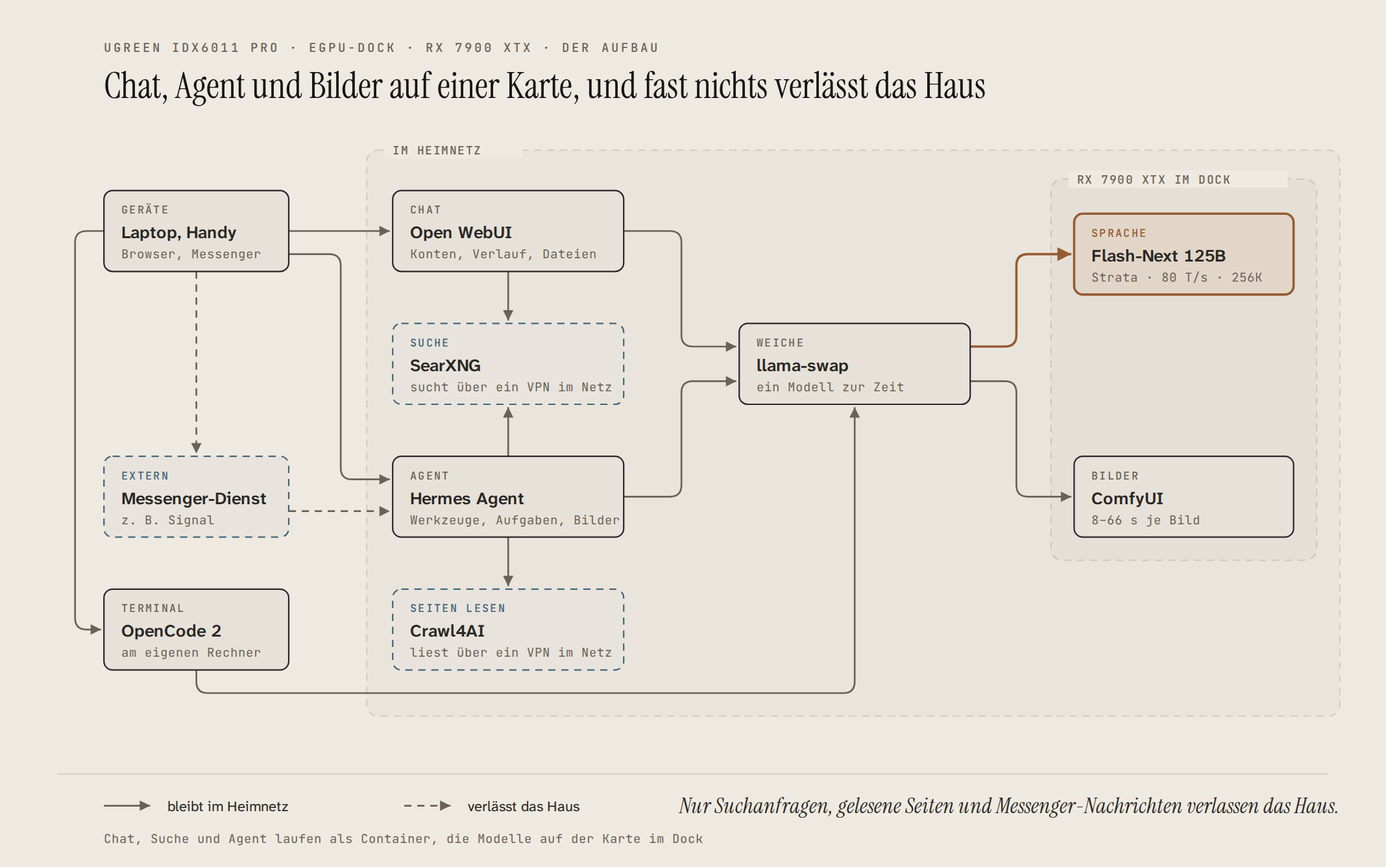
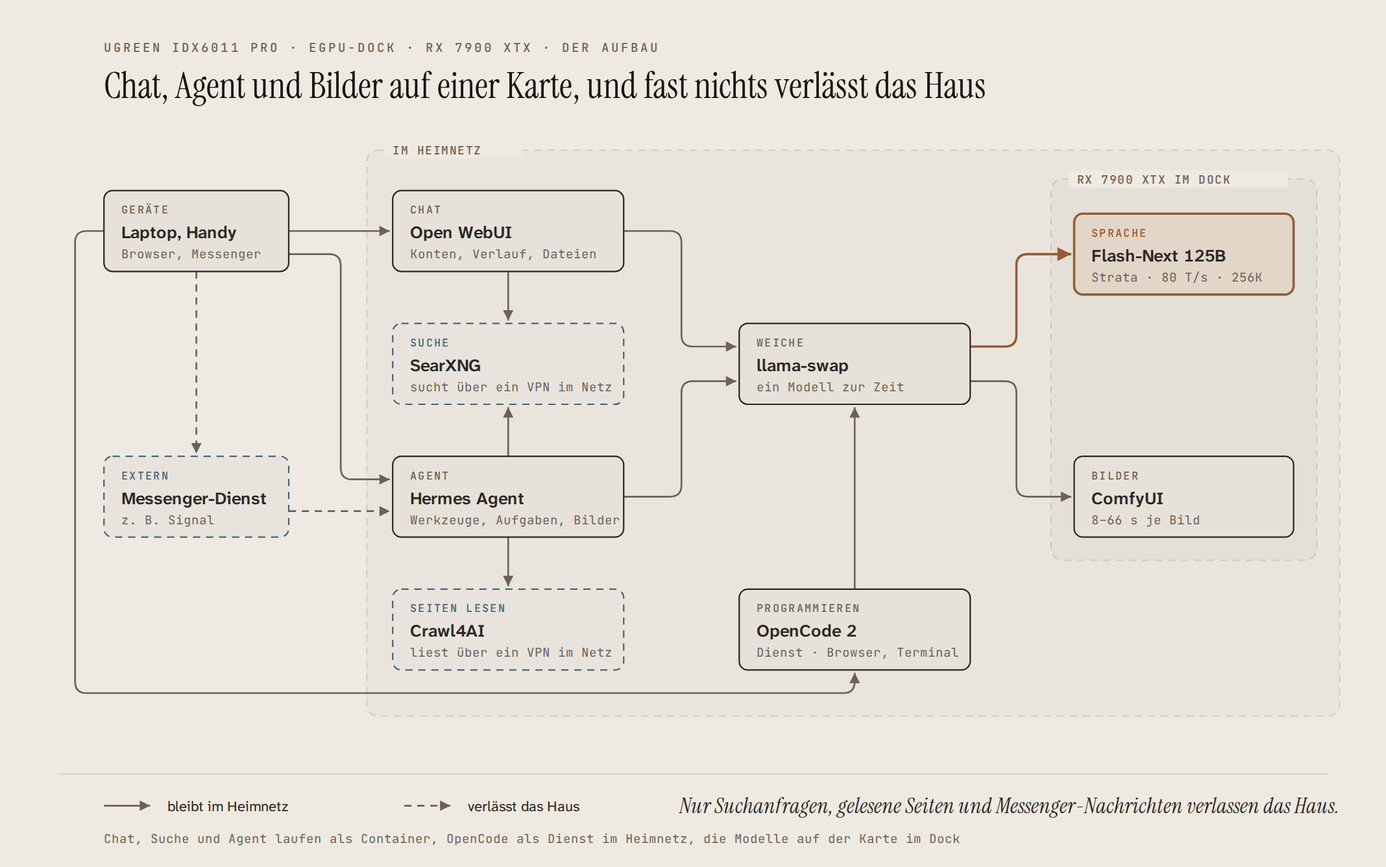
OpenCode 2 runs as a service in the home network: setup chart, page and guide updated

diff --git a/bilder/html/aufbau-de.html b/bilder/html/aufbau-de.html
@@ -18,7 +18,7 @@
   <div class="frame"><div class="scroll">
     <svg viewBox="0 0 960 600" xmlns="http://www.w3.org/2000/svg" role="img" aria-labelledby="aufbau-de-title aufbau-de-desc">
       <title id="aufbau-de-title">Chat, Agent und Bilder auf einer Karte, und fast nichts verl</title>
-      <desc id="aufbau-de-desc">Laptop und Handy sprechen im Heimnetz mit Open WebUI und mit Hermes Agent, mit dem Agenten auch über einen Messenger-Dienst; beide fragen llama-swap, ebenso OpenCode 2 aus dem Terminal des eigenen Rechners. llama-swap lädt auf der RX 7900 XTX entweder das Sprachmodell oder ComfyUI. Webseiten liest der Agent über Crawl4AI auf der iDX, das sie über ein VPN abruft. Nur Suchanfragen, die vom Agenten gelesenen Seiten und Messenger-Nachrichten verlassen das Haus.</desc>
+      <desc id="aufbau-de-desc">Laptop und Handy sprechen im Heimnetz mit Open WebUI und mit Hermes Agent, mit dem Agenten auch über einen Messenger-Dienst; beide fragen llama-swap, ebenso OpenCode 2, das als Dienst im Heimnetz läuft und vom Browser oder Terminal aus bedient wird. llama-swap lädt auf der RX 7900 XTX entweder das Sprachmodell oder ComfyUI. Webseiten liest der Agent über Crawl4AI auf der iDX, das sie über ein VPN abruft. Nur Suchanfragen, die vom Agenten gelesenen Seiten und Messenger-Nachrichten verlassen das Haus.</desc>
       <rect width="960" height="600" fill="#efeae1"/>
       <text x="72.0" y="36.0" fill="#6a6258" font-size="8.5" font-family="'JetBrains Mono', Consolas, monospace" font-weight="500" letter-spacing="0.16em">UGREEN IDX6011 PRO · EGPU-DOCK · RX 7900 XTX · DER AUFBAU</text>
       <text x="72.0" y="68.0" fill="#171512" font-size="25" font-family="'Instrument Serif', Georgia, serif">Chat, Agent und Bilder auf einer Karte, und fast nichts verlässt das Haus</text>
@@ -33,13 +33,13 @@
       <path d="M 200,176 H 228 Q 236,176 236,184 V 324 Q 236,332 244,332 H 270" fill="none" stroke="#6a6258" stroke-width="1.2" marker-end="url(#pf-de)"/>
       <path d="M 136,188 V 314" fill="none" stroke="#6a6258" stroke-width="1.2" stroke-dasharray="5,4" marker-end="url(#pf-de)"/>
       <path d="M 200,354 H 270" fill="none" stroke="#6a6258" stroke-width="1.2" stroke-dasharray="5,4" marker-end="url(#pf-de)"/>
-      <path d="M 72,160 H 60 Q 52,160 52,168 V 428 Q 52,436 60,436 H 70" fill="none" stroke="#6a6258" stroke-width="1.2" marker-end="url(#pf-de)"/>
+      <path d="M 72,160 H 60 Q 52,160 52,168 V 472 Q 52,480 60,480 H 584 Q 592,480 592,472 V 466" fill="none" stroke="#6a6258" stroke-width="1.2" marker-end="url(#pf-de)"/>
       <path d="M 352,188 V 222" fill="none" stroke="#6a6258" stroke-width="1.2" marker-end="url(#pf-de)"/>
       <path d="M 352,316 V 282" fill="none" stroke="#6a6258" stroke-width="1.2" marker-end="url(#pf-de)"/>
       <path d="M 352,372 V 406" fill="none" stroke="#6a6258" stroke-width="1.2" marker-end="url(#pf-de)"/>
       <path d="M 432,160 H 464 Q 472,160 472,168 V 232 Q 472,240 480,240 H 510" fill="none" stroke="#6a6258" stroke-width="1.2" marker-end="url(#pf-de)"/>
       <path d="M 432,344 H 464 Q 472,344 472,336 V 272 Q 472,264 480,264 H 510" fill="none" stroke="#6a6258" stroke-width="1.2" marker-end="url(#pf-de)"/>
-      <path d="M 136,464 V 472 Q 136,480 144,480 H 584 Q 592,480 592,472 V 282" fill="none" stroke="#6a6258" stroke-width="1.2" marker-end="url(#pf-de)"/>
+      <path d="M 592,408 V 282" fill="none" stroke="#6a6258" stroke-width="1.2" marker-end="url(#pf-de)"/>
       <path d="M 672,240 H 696 Q 704,240 704,232 V 184 Q 704,176 712,176 H 742" fill="none" stroke="#975b34" stroke-width="1.6" marker-end="url(#pf-de-a)"/>
       <path d="M 672,264 H 696 Q 704,264 704,272 V 336 Q 704,344 712,344 H 742" fill="none" stroke="#6a6258" stroke-width="1.2" marker-end="url(#pf-de)"/>
       <rect x="72" y="132" width="128" height="56" rx="6" fill="#efeae1"/>
@@ -52,11 +52,11 @@
       <text x="84.0" y="332.0" fill="#456579" font-size="7.5" font-family="'JetBrains Mono', Consolas, monospace" font-weight="500" letter-spacing="0.14em">EXTERN</text>
       <text x="84.0" y="349.0" fill="#2a2724" font-size="12" font-family="'Atkinson Hyperlegible Next', 'Segoe UI', sans-serif" font-weight="600">Messenger-Dienst</text>
       <text x="84.0" y="363.0" fill="#6a6258" font-size="8.5" font-family="'JetBrains Mono', Consolas, monospace">z. B. Signal</text>
-      <rect x="72" y="408" width="128" height="56" rx="6" fill="#efeae1"/>
-      <rect x="72" y="408" width="128" height="56" rx="6" fill="#2a2724" fill-opacity="0.04" stroke="#2a2724" stroke-width="1"/>
-      <text x="84.0" y="424.0" fill="#6a6258" font-size="7.5" font-family="'JetBrains Mono', Consolas, monospace" font-weight="500" letter-spacing="0.14em">TERMINAL</text>
-      <text x="84.0" y="441.0" fill="#2a2724" font-size="12" font-family="'Atkinson Hyperlegible Next', 'Segoe UI', sans-serif" font-weight="600">OpenCode 2</text>
-      <text x="84.0" y="455.0" fill="#6a6258" font-size="8.5" font-family="'JetBrains Mono', Consolas, monospace">am eigenen Rechner</text>
+      <rect x="512" y="408" width="160" height="56" rx="6" fill="#efeae1"/>
+      <rect x="512" y="408" width="160" height="56" rx="6" fill="#2a2724" fill-opacity="0.04" stroke="#2a2724" stroke-width="1"/>
+      <text x="524.0" y="424.0" fill="#6a6258" font-size="7.5" font-family="'JetBrains Mono', Consolas, monospace" font-weight="500" letter-spacing="0.14em">PROGRAMMIEREN</text>
+      <text x="524.0" y="441.0" fill="#2a2724" font-size="12" font-family="'Atkinson Hyperlegible Next', 'Segoe UI', sans-serif" font-weight="600">OpenCode 2</text>
+      <text x="524.0" y="455.0" fill="#6a6258" font-size="8.5" font-family="'JetBrains Mono', Consolas, monospace">Dienst · Browser, Terminal</text>
       <rect x="272" y="132" width="160" height="56" rx="6" fill="#efeae1"/>
       <rect x="272" y="132" width="160" height="56" rx="6" fill="#2a2724" fill-opacity="0.04" stroke="#2a2724" stroke-width="1"/>
       <text x="284.0" y="148.0" fill="#6a6258" font-size="7.5" font-family="'JetBrains Mono', Consolas, monospace" font-weight="500" letter-spacing="0.14em">CHAT</text>
@@ -98,7 +98,7 @@
       <path d="M 280,558 H 312" fill="none" stroke="#6a6258" stroke-width="1.2" stroke-dasharray="5,4" marker-end="url(#pf-de)"/>
       <text x="324.0" y="562.0" fill="#2a2724" font-size="10" font-family="'Atkinson Hyperlegible Next', 'Segoe UI', sans-serif">verlässt das Haus</text>
       <text x="928.0" y="563.0" fill="#2a2724" font-size="15" font-family="'Instrument Serif', Georgia, serif" text-anchor="end" font-style="italic">Nur Suchanfragen, gelesene Seiten und Messenger-Nachrichten verlassen das Haus.</text>
-      <text x="72.0" y="584.0" fill="#6a6258" font-size="8.5" font-family="'JetBrains Mono', Consolas, monospace">Chat, Suche und Agent laufen als Container, die Modelle auf der Karte im Dock</text>
+      <text x="72.0" y="584.0" fill="#6a6258" font-size="8.5" font-family="'JetBrains Mono', Consolas, monospace">Chat, Suche und Agent laufen als Container, OpenCode als Dienst im Heimnetz, die Modelle auf der Karte im Dock</text>
     </svg>
   </div></div>
 </body>

diff --git a/bilder/html/aufbau-en.html b/bilder/html/aufbau-en.html
@@ -18,7 +18,7 @@
   <div class="frame"><div class="scroll">
     <svg viewBox="0 0 960 600" xmlns="http://www.w3.org/2000/svg" role="img" aria-labelledby="aufbau-en-title aufbau-en-desc">
       <title id="aufbau-en-title">Chat, agent and pictures on one card, and almost nothing lea</title>
-      <desc id="aufbau-en-desc">Laptop and phone talk to Open WebUI and to Hermes Agent in the home network, to the agent also through a messenger service; both ask llama-swap, as does OpenCode 2 from the terminal of your own computer. llama-swap loads either the language model or ComfyUI on the RX 7900 XTX. The agent reads web pages through Crawl4AI on the iDX, which fetches them through a VPN. Only search queries, the pages the agent reads and messenger messages leave the house.</desc>
+      <desc id="aufbau-en-desc">Laptop and phone talk to Open WebUI and to Hermes Agent in the home network, to the agent also through a messenger service; both ask llama-swap, as does OpenCode 2, which runs as a service in the home network and is used from the browser or the terminal. llama-swap loads either the language model or ComfyUI on the RX 7900 XTX. The agent reads web pages through Crawl4AI on the iDX, which fetches them through a VPN. Only search queries, the pages the agent reads and messenger messages leave the house.</desc>
       <rect width="960" height="600" fill="#efeae1"/>
       <text x="72.0" y="36.0" fill="#6a6258" font-size="8.5" font-family="'JetBrains Mono', Consolas, monospace" font-weight="500" letter-spacing="0.16em">UGREEN IDX6011 PRO · EGPU DOCK · RX 7900 XTX · THE SETUP</text>
       <text x="72.0" y="68.0" fill="#171512" font-size="25" font-family="'Instrument Serif', Georgia, serif">Chat, agent and pictures on one card, and almost nothing leaves the house</text>
@@ -33,13 +33,13 @@
       <path d="M 200,176 H 228 Q 236,176 236,184 V 324 Q 236,332 244,332 H 270" fill="none" stroke="#6a6258" stroke-width="1.2" marker-end="url(#pf-en)"/>
       <path d="M 136,188 V 314" fill="none" stroke="#6a6258" stroke-width="1.2" stroke-dasharray="5,4" marker-end="url(#pf-en)"/>
       <path d="M 200,354 H 270" fill="none" stroke="#6a6258" stroke-width="1.2" stroke-dasharray="5,4" marker-end="url(#pf-en)"/>
-      <path d="M 72,160 H 60 Q 52,160 52,168 V 428 Q 52,436 60,436 H 70" fill="none" stroke="#6a6258" stroke-width="1.2" marker-end="url(#pf-en)"/>
+      <path d="M 72,160 H 60 Q 52,160 52,168 V 472 Q 52,480 60,480 H 584 Q 592,480 592,472 V 466" fill="none" stroke="#6a6258" stroke-width="1.2" marker-end="url(#pf-en)"/>
       <path d="M 352,188 V 222" fill="none" stroke="#6a6258" stroke-width="1.2" marker-end="url(#pf-en)"/>
       <path d="M 352,316 V 282" fill="none" stroke="#6a6258" stroke-width="1.2" marker-end="url(#pf-en)"/>
       <path d="M 352,372 V 406" fill="none" stroke="#6a6258" stroke-width="1.2" marker-end="url(#pf-en)"/>
       <path d="M 432,160 H 464 Q 472,160 472,168 V 232 Q 472,240 480,240 H 510" fill="none" stroke="#6a6258" stroke-width="1.2" marker-end="url(#pf-en)"/>
       <path d="M 432,344 H 464 Q 472,344 472,336 V 272 Q 472,264 480,264 H 510" fill="none" stroke="#6a6258" stroke-width="1.2" marker-end="url(#pf-en)"/>
-      <path d="M 136,464 V 472 Q 136,480 144,480 H 584 Q 592,480 592,472 V 282" fill="none" stroke="#6a6258" stroke-width="1.2" marker-end="url(#pf-en)"/>
+      <path d="M 592,408 V 282" fill="none" stroke="#6a6258" stroke-width="1.2" marker-end="url(#pf-en)"/>
       <path d="M 672,240 H 696 Q 704,240 704,232 V 184 Q 704,176 712,176 H 742" fill="none" stroke="#975b34" stroke-width="1.6" marker-end="url(#pf-en-a)"/>
       <path d="M 672,264 H 696 Q 704,264 704,272 V 336 Q 704,344 712,344 H 742" fill="none" stroke="#6a6258" stroke-width="1.2" marker-end="url(#pf-en)"/>
       <rect x="72" y="132" width="128" height="56" rx="6" fill="#efeae1"/>
@@ -52,11 +52,11 @@
       <text x="84.0" y="332.0" fill="#456579" font-size="7.5" font-family="'JetBrains Mono', Consolas, monospace" font-weight="500" letter-spacing="0.14em">EXTERNAL</text>
       <text x="84.0" y="349.0" fill="#2a2724" font-size="12" font-family="'Atkinson Hyperlegible Next', 'Segoe UI', sans-serif" font-weight="600">Messenger service</text>
       <text x="84.0" y="363.0" fill="#6a6258" font-size="8.5" font-family="'JetBrains Mono', Consolas, monospace">e.g. Signal</text>
-      <rect x="72" y="408" width="128" height="56" rx="6" fill="#efeae1"/>
-      <rect x="72" y="408" width="128" height="56" rx="6" fill="#2a2724" fill-opacity="0.04" stroke="#2a2724" stroke-width="1"/>
-      <text x="84.0" y="424.0" fill="#6a6258" font-size="7.5" font-family="'JetBrains Mono', Consolas, monospace" font-weight="500" letter-spacing="0.14em">TERMINAL</text>
-      <text x="84.0" y="441.0" fill="#2a2724" font-size="12" font-family="'Atkinson Hyperlegible Next', 'Segoe UI', sans-serif" font-weight="600">OpenCode 2</text>
-      <text x="84.0" y="455.0" fill="#6a6258" font-size="8.5" font-family="'JetBrains Mono', Consolas, monospace">on your own computer</text>
+      <rect x="512" y="408" width="160" height="56" rx="6" fill="#efeae1"/>
+      <rect x="512" y="408" width="160" height="56" rx="6" fill="#2a2724" fill-opacity="0.04" stroke="#2a2724" stroke-width="1"/>
+      <text x="524.0" y="424.0" fill="#6a6258" font-size="7.5" font-family="'JetBrains Mono', Consolas, monospace" font-weight="500" letter-spacing="0.14em">CODING</text>
+      <text x="524.0" y="441.0" fill="#2a2724" font-size="12" font-family="'Atkinson Hyperlegible Next', 'Segoe UI', sans-serif" font-weight="600">OpenCode 2</text>
+      <text x="524.0" y="455.0" fill="#6a6258" font-size="8.5" font-family="'JetBrains Mono', Consolas, monospace">service · browser, terminal</text>
       <rect x="272" y="132" width="160" height="56" rx="6" fill="#efeae1"/>
       <rect x="272" y="132" width="160" height="56" rx="6" fill="#2a2724" fill-opacity="0.04" stroke="#2a2724" stroke-width="1"/>
       <text x="284.0" y="148.0" fill="#6a6258" font-size="7.5" font-family="'JetBrains Mono', Consolas, monospace" font-weight="500" letter-spacing="0.14em">CHAT</text>
@@ -98,7 +98,7 @@
       <path d="M 280,558 H 312" fill="none" stroke="#6a6258" stroke-width="1.2" stroke-dasharray="5,4" marker-end="url(#pf-en)"/>
       <text x="324.0" y="562.0" fill="#2a2724" font-size="10" font-family="'Atkinson Hyperlegible Next', 'Segoe UI', sans-serif">leaves the house</text>
       <text x="928.0" y="563.0" fill="#2a2724" font-size="15" font-family="'Instrument Serif', Georgia, serif" text-anchor="end" font-style="italic">Only search queries, pages the agent reads and messenger messages leave the house.</text>
-      <text x="72.0" y="584.0" fill="#6a6258" font-size="8.5" font-family="'JetBrains Mono', Consolas, monospace">Chat, search and agent run as containers, the models on the card in the dock</text>
+      <text x="72.0" y="584.0" fill="#6a6258" font-size="8.5" font-family="'JetBrains Mono', Consolas, monospace">Chat, search and agent run as containers, OpenCode as a service in the home network, the models on the card in the dock</text>
     </svg>
   </div></div>
 </body>

diff --git a/messen/diagramme.py b/messen/diagramme.py
@@ -1160,18 +1160,18 @@ def aufbau(d, sp):
     pfeil(f"M 200,{r1 + 44} H 228 Q 236,{r1 + 44} 236,{r1 + 52} V {r3 + 8} Q 236,{r3 + 16} 244,{r3 + 16} H 270")   # Geräte -> Hermes direkt (Browser, im Heimnetz)
     pfeil(f"M 136,{r1 + 56} V {r3 - 2}", gestrichelt=True)                                              # Geräte -> Messenger-Dienst
     pfeil(f"M 200,{r3 + 38} H 270", gestrichelt=True)                                                   # Messenger-Dienst -> Hermes
-    pfeil(f"M 72,{r1 + 28} H 60 Q 52,{r1 + 28} 52,{r1 + 36} V {r4 + 20} Q 52,{r4 + 28} 60,{r4 + 28} H 70")         # Geräte -> OpenCode 2, links außen
+    pfeil(f"M 72,{r1 + 28} H 60 Q 52,{r1 + 28} 52,{r1 + 36} V {r4 + 64} Q 52,{r4 + 72} 60,{r4 + 72} H 584 Q 592,{r4 + 72} 592,{r4 + 64} V {r4 + 58}")   # Geräte -> OpenCode 2 (Dienst im Heimnetz seit 22.11.2026), links außen und unten herum
     pfeil(f"M 352,{r1 + 56} V {r2 - 2}")                                                                # Open WebUI -> SearXNG
     pfeil(f"M 352,{r3} V {r2 + 58}")                                                                    # Hermes -> SearXNG
     pfeil(f"M 352,{r3 + 56} V {r4 - 2}")                                                                # Hermes -> Crawl4AI, direkt darunter
     pfeil(f"M 432,{r1 + 28} H 464 Q 472,{r1 + 28} 472,{r1 + 36} V {r2 + 8} Q 472,{r2 + 16} 480,{r2 + 16} H 510")   # Open WebUI -> llama-swap
     pfeil(f"M 432,{r3 + 28} H 464 Q 472,{r3 + 28} 472,{r3 + 20} V {r2 + 48} Q 472,{r2 + 40} 480,{r2 + 40} H 510")  # Hermes -> llama-swap
-    pfeil(f"M 136,{r4 + 56} V {r4 + 64} Q 136,{r4 + 72} 144,{r4 + 72} H 584 Q 592,{r4 + 72} 592,{r4 + 64} V {r2 + 58}")  # OpenCode 2 -> llama-swap, unten herum
+    pfeil(f"M 592,{r4} V {r2 + 58}")                                                                    # OpenCode 2 -> llama-swap, direkt darüber
     pfeil(f"M 672,{r2 + 16} H 696 Q 704,{r2 + 16} 704,{r2 + 8} V 184 Q 704,176 712,176 H 742", fokus=True)        # llama-swap -> Sprachmodell
     pfeil(f"M 672,{r2 + 40} H 696 Q 704,{r2 + 40} 704,{r2 + 48} V {r3 + 20} Q 704,{r3 + 28} 712,{r3 + 28} H 742")  # llama-swap -> ComfyUI
     knoten(A_, r1, T("Geräte", "Devices"), T("Laptop, Handy", "Laptop, phone"), T("Browser, Messenger", "browser, messenger"), w=128)
     knoten(A_, r3, T("extern", "external"), T("Messenger-Dienst", "Messenger service"), T("z. B. Signal", "e.g. Signal"), "extern", w=128)
-    knoten(A_, r4, "Terminal", "OpenCode 2", T("am eigenen Rechner", "on your own computer"), w=128)
+    knoten(C_, r4, T("Programmieren", "Coding"), "OpenCode 2", T("Dienst · Browser, Terminal", "service · browser, terminal"))
     knoten(B_, r1, "Chat", "Open WebUI", T("Konten, Verlauf, Dateien", "accounts, history, files"))
     knoten(B_, r2, T("Suche", "Search"), "SearXNG", T("sucht über ein VPN im Netz", "searches through a VPN"), "extern")
     knoten(B_, r3, "Agent", "Hermes Agent", T("Werkzeuge, Aufgaben, Bilder", "tools, tasks, pictures"))
@@ -1187,10 +1187,10 @@ def aufbau(d, sp):
     s.roh(f'<path d="M 280,{y + 22} H 312" fill="none" stroke="{MUTED}" stroke-width="1.2" stroke-dasharray="5,4" marker-end="url(#{pf})"/>')
     s.text(324, y + 26, T("verlässt das Haus", "leaves the house"), 10, INK, "sans")
     s.text(R, y + 27, T("Nur Suchanfragen, gelesene Seiten und Messenger-Nachrichten verlassen das Haus.", "Only search queries, pages the agent reads and messenger messages leave the house."), 15, INK, "serif", "end", kursiv=True)
-    s.text(L, y + 48, T("Chat, Suche und Agent laufen als Container, die Modelle auf der Karte im Dock",
-                        "Chat, search and agent run as containers, the models on the card in the dock"), 8.5, MUTED, "mono")
-    return "aufbau", titel, T("Laptop und Handy sprechen im Heimnetz mit Open WebUI und mit Hermes Agent, mit dem Agenten auch über einen Messenger-Dienst; beide fragen llama-swap, ebenso OpenCode 2 aus dem Terminal des eigenen Rechners. llama-swap lädt auf der RX 7900 XTX entweder das Sprachmodell oder ComfyUI. Webseiten liest der Agent über Crawl4AI auf der iDX, das sie über ein VPN abruft. Nur Suchanfragen, die vom Agenten gelesenen Seiten und Messenger-Nachrichten verlassen das Haus.",
-                              "Laptop and phone talk to Open WebUI and to Hermes Agent in the home network, to the agent also through a messenger service; both ask llama-swap, as does OpenCode 2 from the terminal of your own computer. llama-swap loads either the language model or ComfyUI on the RX 7900 XTX. The agent reads web pages through Crawl4AI on the iDX, which fetches them through a VPN. Only search queries, the pages the agent reads and messenger messages leave the house."), s, 600
+    s.text(L, y + 48, T("Chat, Suche und Agent laufen als Container, OpenCode als Dienst im Heimnetz, die Modelle auf der Karte im Dock",
+                        "Chat, search and agent run as containers, OpenCode as a service in the home network, the models on the card in the dock"), 8.5, MUTED, "mono")
+    return "aufbau", titel, T("Laptop und Handy sprechen im Heimnetz mit Open WebUI und mit Hermes Agent, mit dem Agenten auch über einen Messenger-Dienst; beide fragen llama-swap, ebenso OpenCode 2, das als Dienst im Heimnetz läuft und vom Browser oder Terminal aus bedient wird. llama-swap lädt auf der RX 7900 XTX entweder das Sprachmodell oder ComfyUI. Webseiten liest der Agent über Crawl4AI auf der iDX, das sie über ein VPN abruft. Nur Suchanfragen, die vom Agenten gelesenen Seiten und Messenger-Nachrichten verlassen das Haus.",
+                              "Laptop and phone talk to Open WebUI and to Hermes Agent in the home network, to the agent also through a messenger service; both ask llama-swap, as does OpenCode 2, which runs as a service in the home network and is used from the browser or the terminal. llama-swap loads either the language model or ComfyUI on the RX 7900 XTX. The agent reads web pages through Crawl4AI on the iDX, which fetches them through a VPN. Only search queries, the pages the agent reads and messenger messages leave the house."), s, 600
 
 
 def parallel(d, sp):

diff --git a/web/bau.py b/web/bau.py
@@ -232,9 +232,9 @@ def seite(sp):
          T("„Mach ein Bild von …“ im Chat oder im Messenger: Die Weiche entlädt das Sprachmodell und lädt ein Bildmodell auf dieselbe Karte. Beides zugleich passt nicht in 24 GB.",
            "\"Make a picture of …\" in the chat or the messenger: the switch unloads the language model and loads a picture model onto the same card. Both at once do not fit into 24 GB."),
          T("<b>8–66 s</b> je Bild · Wechsel vom Sprachmodell 21–27 s", "<b>8–66 s</b> per picture · swapping from the language model 21–27 s")),
-        (T("Programmieren im Terminal", "Coding in the terminal"), "OpenCode 2",
-         T("Ein Programmier-Agent im Terminal, der Dateien liest, ändert und Befehle ausführt. Er spricht dieselbe Adresse an wie der Chat, das Modell wählt man in der Sitzung. Der Code bleibt dabei im Haus.",
-           "A coding agent in the terminal that reads and changes files and runs commands. It talks to the same address as the chat, and you pick the model in the session. The code stays at home."),
+        (T("Programmieren", "Coding"), "OpenCode 2",
+         T("Ein Programmier-Agent, der Dateien liest, ändert und Befehle ausführt. Er läuft als Dienst im Heimnetz, mit Passwort, und wird im Browser oder aus dem Terminal jedes Rechners bedient; eine Sitzung läuft weiter, wenn der Laptop zugeklappt wird. Er spricht dieselbe Adresse an wie der Chat, das Modell wählt man in der Sitzung. Mit den lokalen Modellen bleibt der Code im Haus.",
+           "A coding agent that reads and changes files and runs commands. It runs as a service in the home network, with a password, and is used from the browser or from the terminal of any computer; a session keeps running when the laptop is closed. It talks to the same address as the chat, and you pick the model in the session. With the local models the code stays at home."),
          T("teilt sich die Karte mit Chat und Agent: <b>eine Anfrage nach der anderen</b>", "shares the card with chat and agent: <b>one request at a time</b>")),
         (T("Eigene Programme", "Your own programs"), T("API im OpenAI-Format", "API in the OpenAI format"),
          T("Jedes Programm, das einen Cloud-Dienst im OpenAI-Format ansprechen kann, lässt sich auf die Adresse im Heimnetz umstellen: Skripte, Editor-Erweiterungen, Automationen. Ein Konto bei einem Anbieter ist nicht nötig.",
@@ -474,8 +474,8 @@ def seite(sp):
         (T("Agent dazu", "Add the agent"), T("Hermes Agent mit dem lokalen Modell: Kontext auf 256K stellen, ein Token-Budget für das Nachdenken setzen und die Regeln gegen das Erfinden aus Kapitel 6 in den Systemprompt nehmen.",
                                              "Hermes Agent with the local model: set the context to 256K, give the reasoning a token budget and put the rules against making things up from chapter 6 into the system prompt."),
          doc("agent"), T("Regeln und Prüfer", "Rules and checker")),
-        (T("OpenCode 2 dazu", "Add OpenCode 2"), T("OpenCode 2 auf dem eigenen Rechner, mit llama-swap als Anbieter im OpenAI-Format. Für die Sitzungstitel dasselbe Modell eintragen wie für die Arbeit, sonst lädt die Weiche für jeden Titel um.",
-                                               "OpenCode 2 on your own computer, with llama-swap as a provider in the OpenAI format. Set the same model for session titles as for the work, otherwise the switch reloads for every title."),
+        (T("OpenCode 2 dazu", "Add OpenCode 2"), T("OpenCode 2 als Dienst im Heimnetz (<code>opencode serve</code> mit Passwort) oder auf dem eigenen Rechner, mit llama-swap als Anbieter im OpenAI-Format. Für die Sitzungstitel dasselbe Modell eintragen wie für die Arbeit, sonst lädt die Weiche für jeden Titel um.",
+                                               "OpenCode 2 as a service in the home network (<code>opencode serve</code> with a password) or on your own computer, with llama-swap as a provider in the OpenAI format. Set the same model for session titles as for the work, otherwise the switch reloads for every title."),
          f"{GH}/tree/main/konfig/opencode", T("Beispielkonfiguration", "Example config")),
     ]
     A('<ol class="schritte">' + "".join(f'<li><h3>{e(t_)}</h3><p>{b_}</p><a href="{u}">{e(l_)}</a></li>' for t_, b_, u, l_ in schritte) + "</ol>")

diff --git a/konfig/opencode/README.de.md b/konfig/opencode/README.de.md
@@ -11,6 +11,20 @@ cp opencode.jsonc ~/.config/opencode/opencode.jsonc     # danach die Adresse von
 opencode
 ```
 
+Als Dienst im Heimnetz (so läuft es hier seit dem 22.11.2026): Ein Rechner im Heimnetz betreibt OpenCode
+dauerhaft, mit Passwort, und jeder Rechner, jedes Handy oder Tablet bedient ihn aus dem Terminal oder im Browser.
+Eine Sitzung läuft weiter, wenn der Laptop zugeklappt wird.
+
+```bash
+# auf dem Rechner, der den Dienst trägt (zum Beispiel als systemd-Benutzerdienst)
+OPENCODE_SERVER_PASSWORD=<Passwort> opencode serve --hostname <seine Adresse im Heimnetz> --port 4096
+# auf jedem Rechner im Heimnetz
+OPENCODE_PASSWORD=<Passwort> opencode --server http://<Adresse>:4096
+```
+
+Im Browser erreicht man dieselben Sitzungen unter `http://<Adresse>:4096`. Den Port im Heimnetz lassen; der
+Dienst führt auf diesem Rechner Befehle aus.
+
 Was ich gelernt habe:
 
 - **Eine Anfrage nach der anderen.** Strata beantwortet Anfragen nacheinander. Schreibt gerade der Agent oder

diff --git a/konfig/opencode/README.md b/konfig/opencode/README.md
@@ -11,6 +11,20 @@ cp opencode.jsonc ~/.config/opencode/opencode.jsonc     # then enter llama-swap'
 opencode
 ```
 
+As a service in the home network (how it runs here since 22 Nov 2026): one machine in the home network runs
+OpenCode permanently, with a password, and every computer, phone or tablet uses it from the terminal or the
+browser. A session keeps running when the laptop is closed.
+
+```bash
+# on the machine that runs the service (for example as a systemd user service)
+OPENCODE_SERVER_PASSWORD=<password> opencode serve --hostname <its address in the home network> --port 4096
+# on any computer in the home network
+OPENCODE_PASSWORD=<password> opencode --server http://<address>:4096
+```
+
+The browser reaches the same sessions at `http://<address>:4096`. Keep the port inside the home network; the
+service runs commands on that machine.
+
 What I learned:
 
 - **One request at a time.** Strata answers one request after the other. If the agent or the chat is writing,

diff --git a/README.de.md b/README.de.md
@@ -522,7 +522,7 @@ Modelle, Sekunden je Bild, was ich auf gfx1100 gelernt habe, und der Bild-Anbiet
   konfig/strata-xtx-0.2.16/     dasselbe für den Bau auf 0.2.16 (19. bis 20.11.2026)
   konfig/hermes-pruefer/        Plugin für Hermes Agent: prüft jede Antwort mit festen Regeln, ohne Sprachmodell
   konfig/stack/                 Chat und Websuche: Compose-Datei für Open WebUI und SearXNG, auf dem NAS getestet (EN/DE)
-  konfig/opencode/              OpenCode 2 im Terminal mit den lokalen Modellen: Beispielkonfiguration und was ich gelernt habe (EN/DE)
+  konfig/opencode/              OpenCode 2 mit den lokalen Modellen, als Dienst im Heimnetz oder im Terminal: Beispielkonfiguration und was ich gelernt habe (EN/DE)
 ```
 
 **UGOS**

diff --git a/README.md b/README.md
@@ -519,7 +519,7 @@ Models, seconds per picture, what I learned on gfx1100 and the image backend for
   konfig/strata-xtx-0.2.16/     the same for the build on 0.2.16 (19 to 20 Nov 2026)
   konfig/hermes-pruefer/        plugin for Hermes Agent: checks every answer with fixed rules, no language model
   konfig/stack/                 chat and web search: Compose file for Open WebUI and SearXNG, tested on the NAS (EN/DE)
-  konfig/opencode/              OpenCode 2 in the terminal with the local models: example config and what I learned (EN/DE)
+  konfig/opencode/              OpenCode 2 with the local models, as a service in the home network or in the terminal: example config and what I learned (EN/DE)
 ```
 
 **UGOS**
